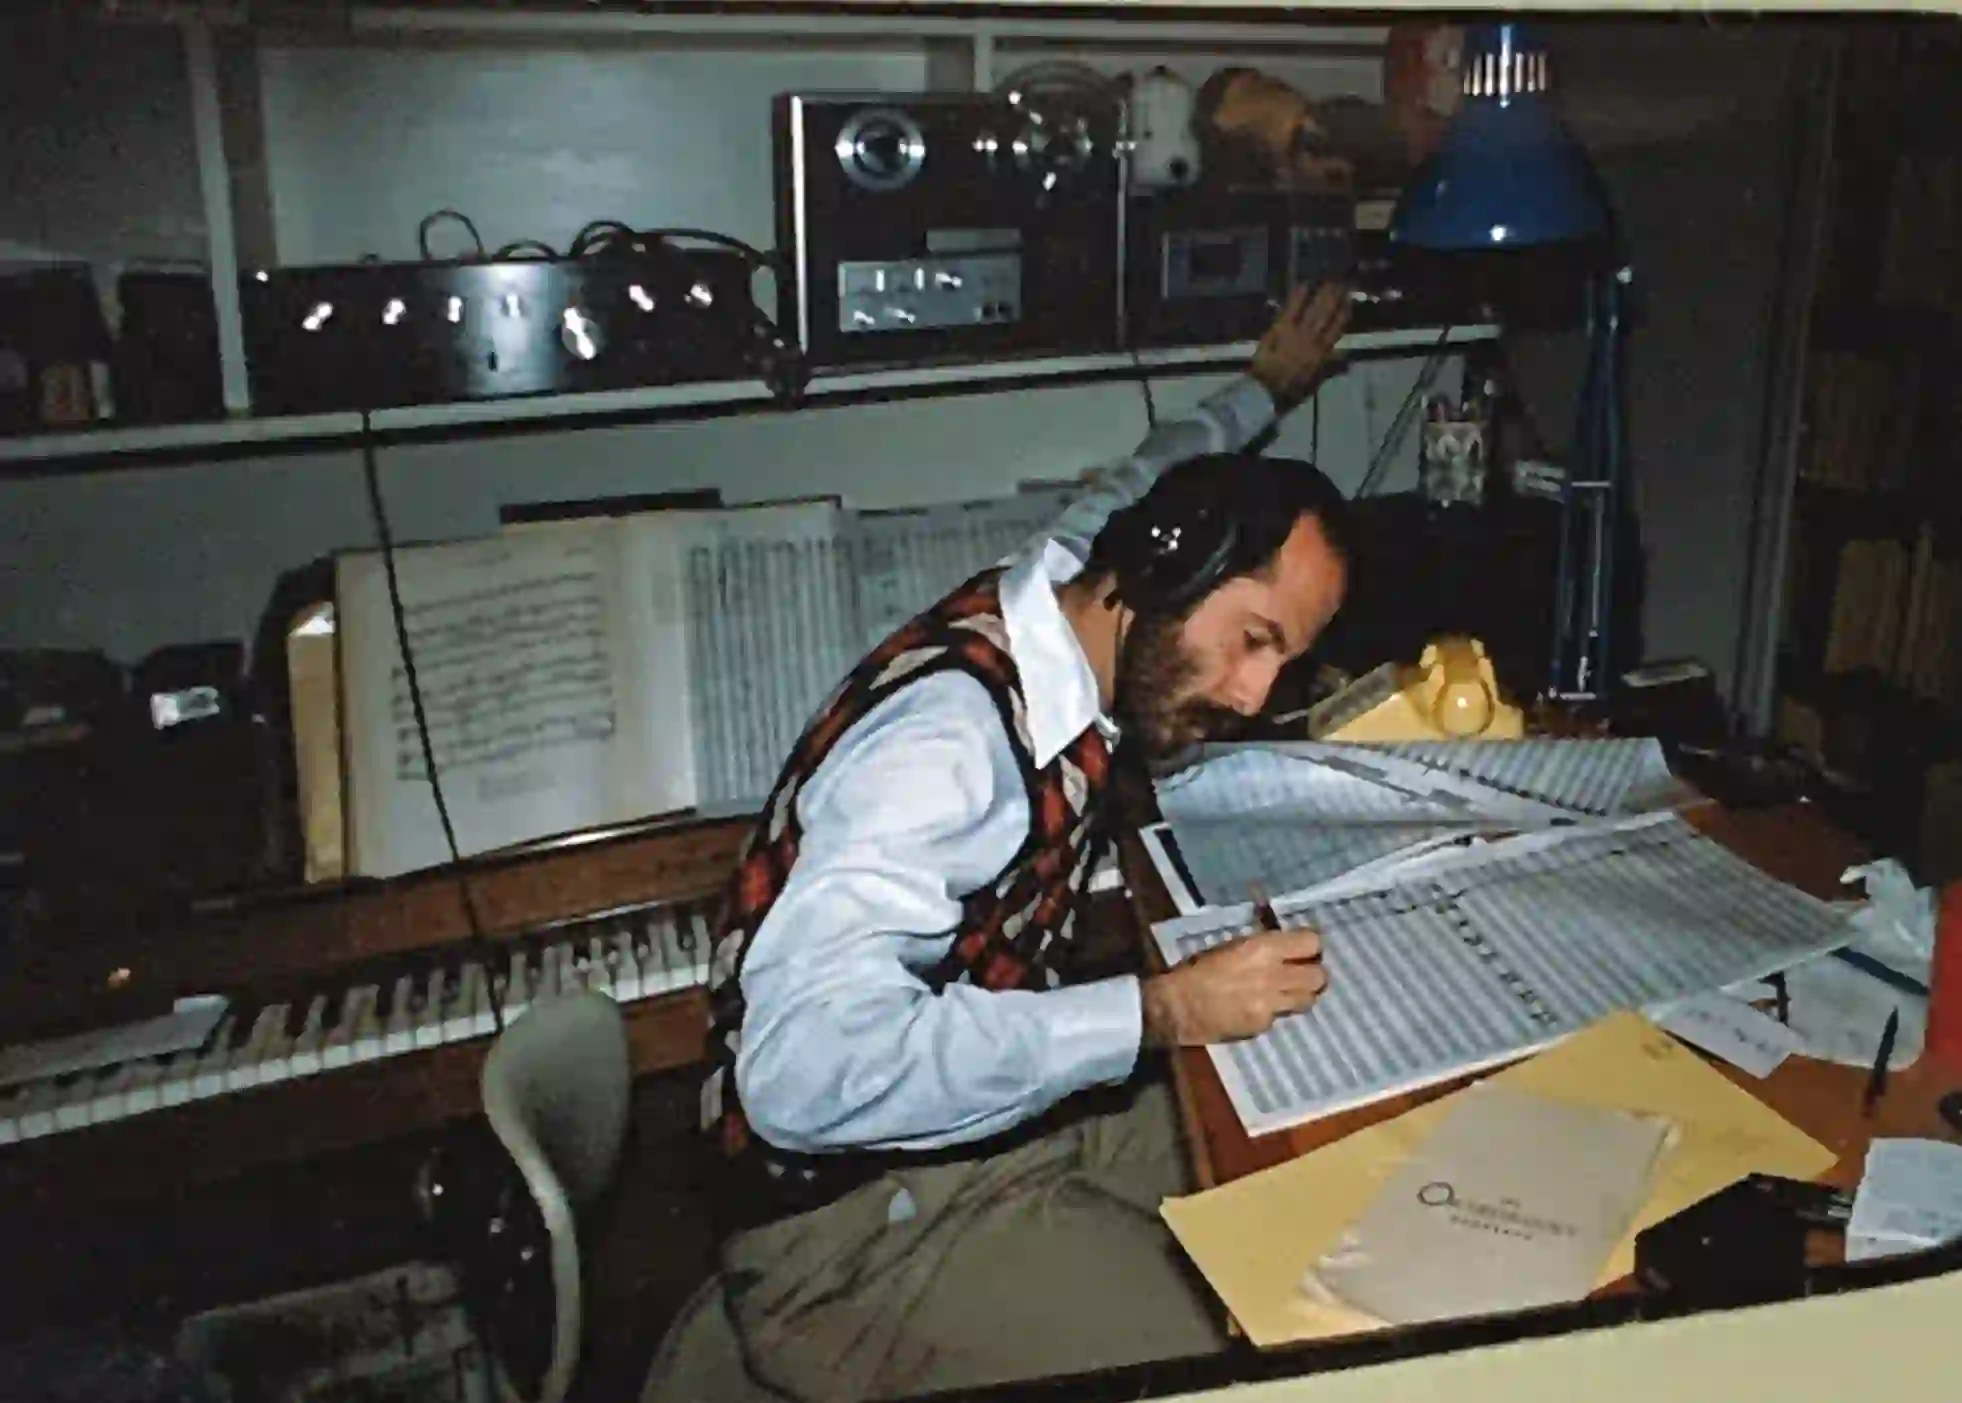
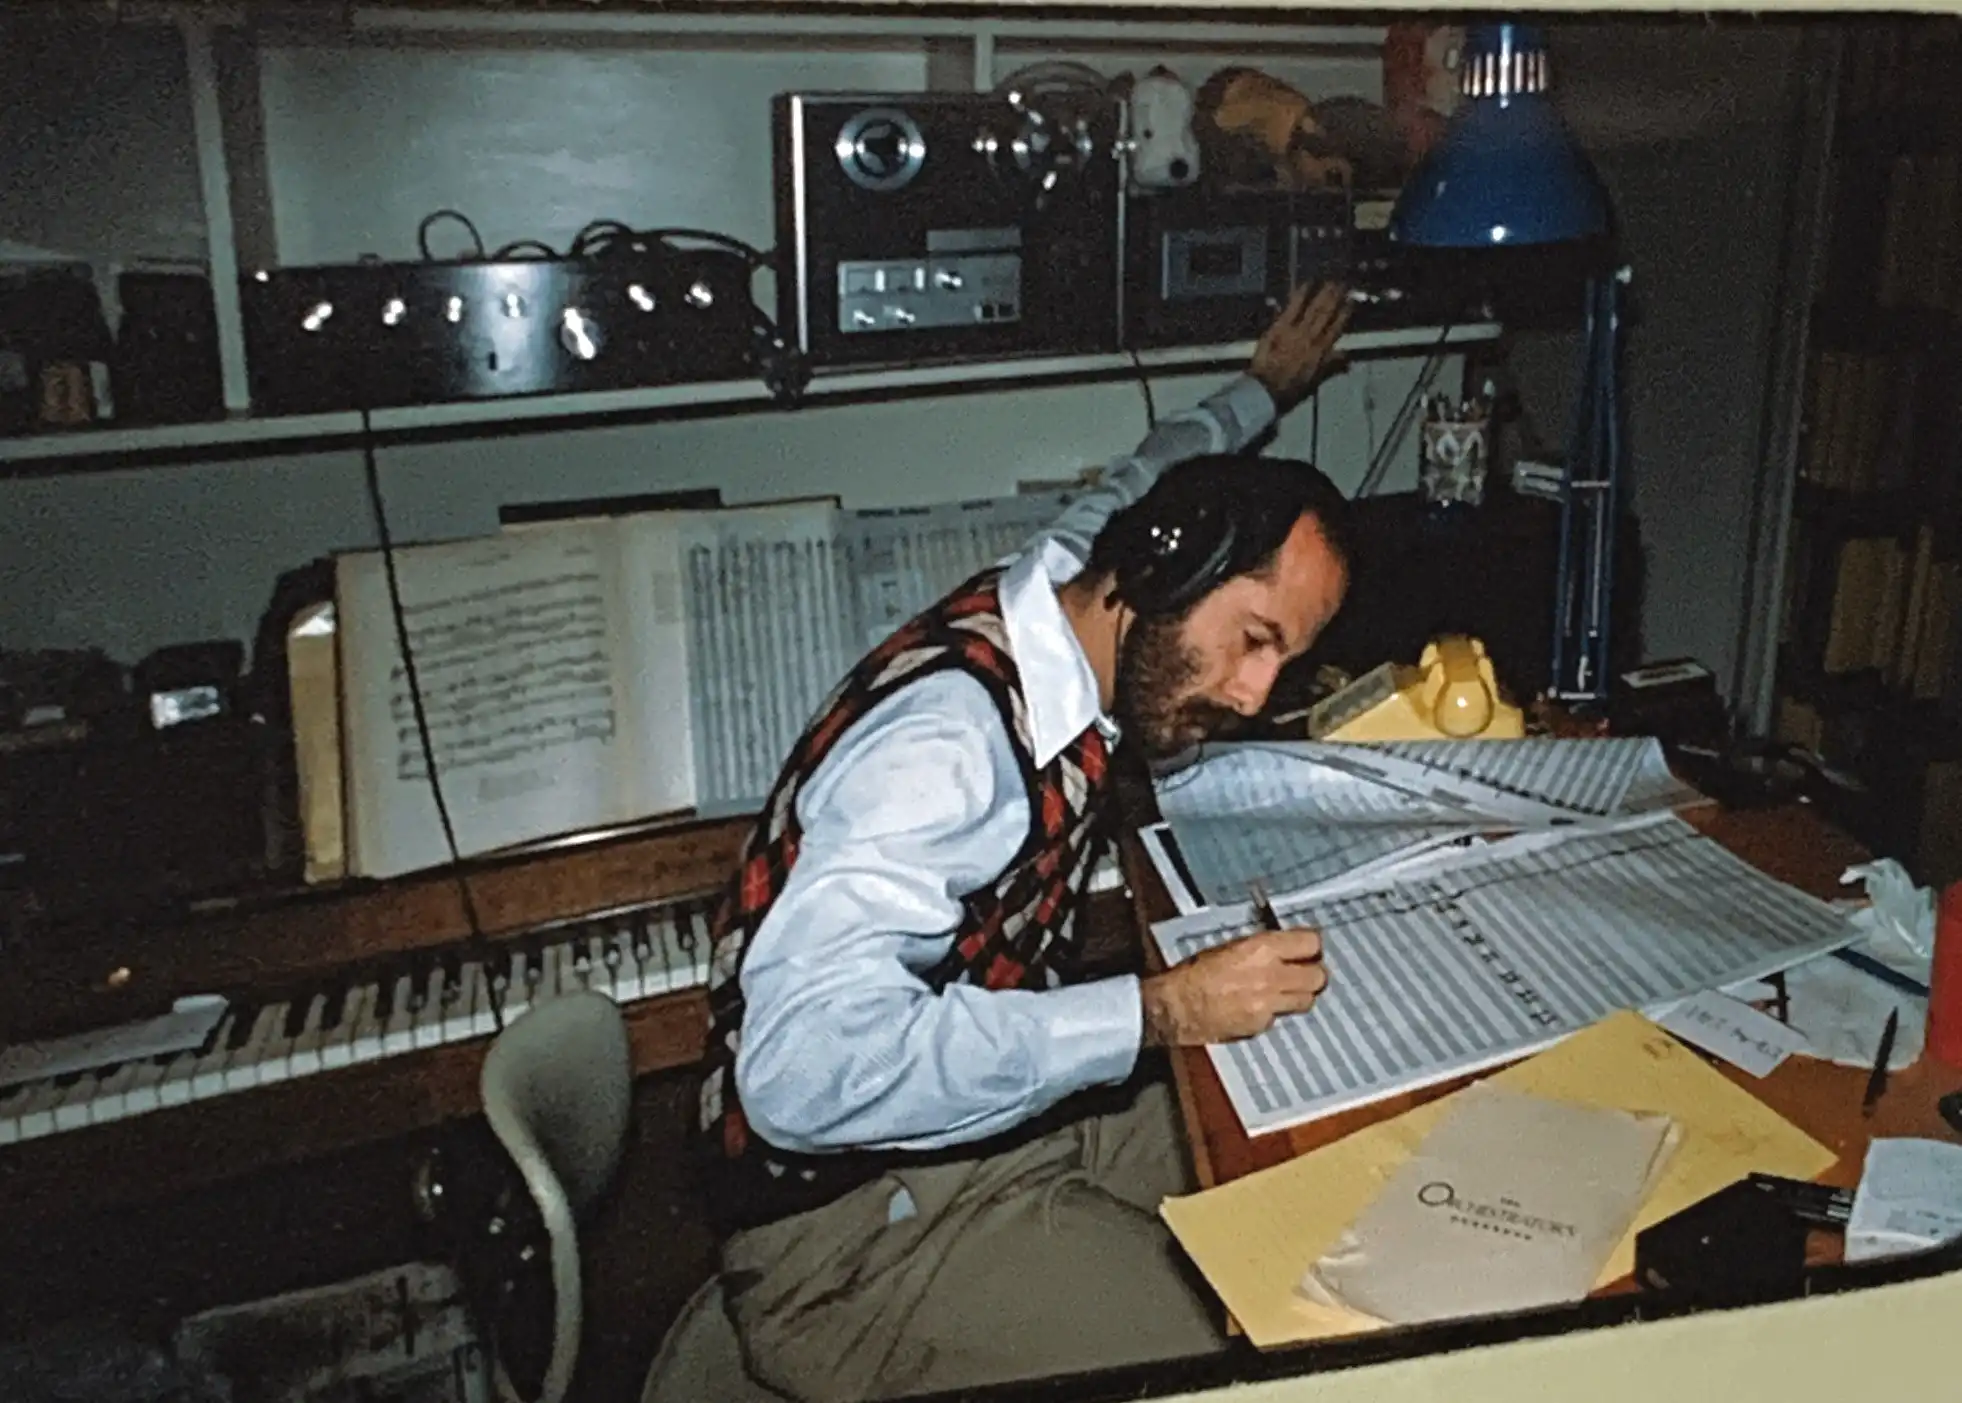
recreated webp's ; need to test performance main.html

diff --git a/main.html b/main.html
@@ -8,8 +8,8 @@
     <meta http-equiv="X-UA-Compatible" content="ie=edge">
     <title>Tompkins Farm Music</title>
     <link rel="icon" href="./img/TFM4-transparent-black-3000.svg">
-    <link rel='stylesheet' href='./style.min.css'>
-    <!-- <link rel='stylesheet' href='./style.css'> -->
+    <!-- <link rel='stylesheet' href='./style.min.css'> -->
+    <link rel='stylesheet' href='./style.css'>
 </head>
 
 <body>
@@ -92,7 +92,7 @@
                         </p>
                     </div>
                     <div class='imgsplit--img' 
-                        style="background: url(./temp-img/beard.png) no-repeat center;
+                        style="background: url(./temp-img/beard.webp) no-repeat center;
                                 background-size: contain;">
                     </div>
                 </div>
@@ -110,18 +110,18 @@
                         </p>
                     </div>
                     <div class='imgsplit--img' 
-                        style="background: url(./temp-img/shaq.png) no-repeat center;
+                        style="background: url(./temp-img/shaq.webp) no-repeat center;
                                 background-size: contain;">
                     </div>
                 </div>
                 <div class="logorow">
                     <img class="noselect" src="./img/mlc.svg">
                     <img class="noselect" src="./img/logo-desktop.webp">
-                    <img class="noselect" src="./img/cmrra.png">
-                    <img class="noselect" src="./img/impel.png">
+                    <img class="noselect" src="./img/cmrra.webp">
+                    <img class="noselect" src="./img/impel.webp">
                     <img class="noselect" src="./img/PRS_for_Music.svg">
-                    <img class="noselect" src="./img/logo-latinautor.png">
-                    <img class="noselect" src="./img/sacem.png">
+                    <img class="noselect" src="./img/logo-latinautor.webp">
+                    <img class="noselect" src="./img/sacem.webp">
                 </div>
             </div>
         </section>
@@ -139,17 +139,17 @@
                         </p>
                     </div>
                     <div class='imgsplit--img' 
-                        style="background: url(./temp-img/chuck.png) no-repeat center;
+                        style="background: url(./temp-img/chuck.webp) no-repeat center;
                                 background-size: contain;">
                     </div>
                 </div>
                 <div class="logorow">
-                    <img class="noselect" src="./img/tidal.png">
-                    <img class="noselect" src="./img/deezer.png">
-                    <img class="noselect" src="./img/applemusic.png">
-                    <img class="noselect" src="./img/amazonmusic.png">
-                    <img class="noselect" src="./img/spotify.png">
-                    <img class="noselect" src="./img/youtube.png">
+                    <img class="noselect" src="./img/tidal.webp">
+                    <img class="noselect" src="./img/deezer.webp">
+                    <img class="noselect" src="./img/applemusic.webp">
+                    <img class="noselect" src="./img/amazonmusic.webp">
+                    <img class="noselect" src="./img/spotify.webp">
+                    <img class="noselect" src="./img/youtube.webp">
                 </div>
             </div>
         </section>
@@ -167,14 +167,14 @@
                         </p>
                     </div>
                     <div class='imgsplit--img'
-                        style="background: url(./temp-img/kyrie.png) no-repeat center;
+                        style="background: url(./temp-img/kyrie.webp) no-repeat center;
                                 background-size: contain;">
                     </div>
                 </div>
                 <div class="logorow">
-                    <img class="noselect" src="./img/wsn.png">
-                    <img class="noselect" src="./img/paragon-film-music.png">
-                    <img class="noselect" src="./img/bmg-production-music.png">
+                    <img class="noselect" src="./img/wsn.webp">
+                    <img class="noselect" src="./img/paragon-film-music.webp">
+                    <img class="noselect" src="./img/bmg-production-music.webp">
                 </div>
             </div>
         </section>
@@ -387,13 +387,13 @@
                 <div>
                     <img class="noselect" 
                         data-emoji="📞" class="an1" alt="📞" aria-label="📞" 
-                        src="https://fonts.gstatic.com/s/e/notoemoji/13.1.1/1f4de/32.png" 
+                        src="https://fonts.gstatic.com/s/e/notoemoji/13.1.1/1f4de/32.webp" 
                         loading="lazy" height="16px">
                     NOTHING HERE
                     <br> 
                     <img class="noselect" 
                         data-emoji="📧" class="an1" alt="📧" aria-label="📧" 
-                        src="https://fonts.gstatic.com/s/e/notoemoji/13.1.1/1f4e7/32.png" 
+                        src="https://fonts.gstatic.com/s/e/notoemoji/13.1.1/1f4e7/32.webp" 
                         loading="lazy" height="16px">
                     <a href="mailto:tompkinsfarmhand@gmail.com" target="_blank">
                         tompkinsfarmhand@gmail.com
@@ -401,17 +401,17 @@
                     <br> 
                     <img class="noselect" 
                         data-emoji="📌" class="an1" alt="📌" aria-label="📌" 
-                        src="https://fonts.gstatic.com/s/e/notoemoji/13.1.1/1f4cc/32.png" 
+                        src="https://fonts.gstatic.com/s/e/notoemoji/13.1.1/1f4cc/32.webp" 
                         loading="lazy" height="16px">
                     Mamaroneck, New York
                     <br>
                 </div>
                 <div id="socials">
                     <a href='https://www.instagram.com/tompkinsfarmmusic/' target='_blank'>
-                        <img class="noselect" src='./img/Instagram_Glyph_Gradient_RGB.png'>
+                        <img class="noselect" src='./img/Instagram_Glyph_Gradient_RGB.webp'>
                     </a>
                     <a href='https://twitter.com/tmpkinsfarmusic' target='_blank'>
-                        <img class="noselect" src='./img/Twitter social icons - rounded square - blue.png'>
+                        <img class="noselect" src='./img/Twitter social icons - rounded square - blue.webp'>
                     </a>
                 </div>
             
